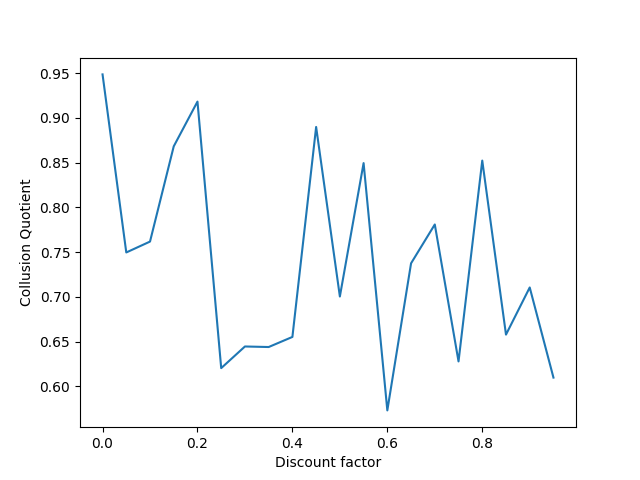
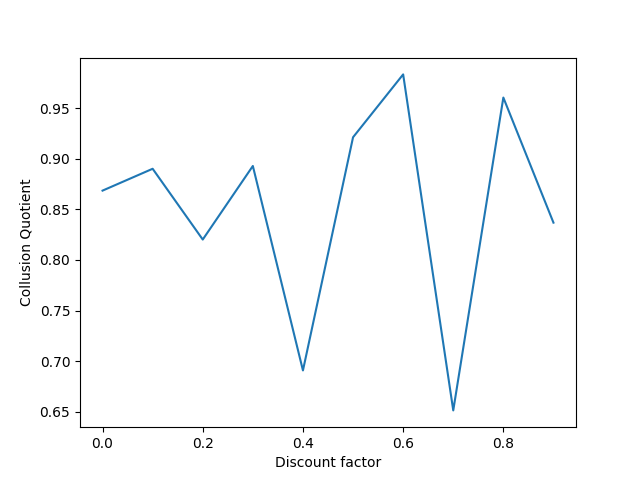
push

diff --git a/graph_2_firms_2_products_boxplot.py b/graph_2_firms_2_products_boxplot.py
@@ -1,0 +1,36 @@
+import numpy as np
+import utils.lib as lib
+import Classes.SIMULATOR as SIMULATOR
+import utils.config as config
+import matplotlib.pyplot as plt
+from os.path import basename
+
+
+filename =  basename(__file__)
+
+
+def main():
+    sessions = 1
+    iterations = 10**7
+    numb_firms = 2
+
+    collusion_quotients_list = []
+
+
+    new_config = config.create_config(sessions=sessions, iterations=iterations, numb_firms=numb_firms, numb_products=2)
+    market, results = SIMULATOR.simulate_sessions(new_config, filename=filename, parallel=True, savedData=False)
+    collusion_quotients = [[state.collussion_quotient for state in result[-100000:]] for result in results]
+    collusion_quotients = np.array(collusion_quotients)
+    collusion_quotients = np.mean(collusion_quotients, axis=(1,2))
+    collusion_quotients = np.transpose(collusion_quotients)
+    collusion_quotients_list.append(collusion_quotients)
+
+    plt.boxplot(collusion_quotients_list)
+    plt.ylabel('Collusion Quotient')
+    plt.xlabel('Number of firms')
+    plt.savefig(config.create_filepath(filename + "_boxplot"))
+
+if __name__ == "__main__":
+    config.profile_main(main,filename)
+    
+    

diff --git a/graph_discount_factor_multiproduct.py b/graph_discount_factor_multiproduct.py
@@ -23,7 +23,7 @@ def main():
         new_config = config.create_config(sessions=sessions, iterations=iterations, numb_firms=numb_firms, gamma=gamma)
         market, results = SIMULATOR.simulate_sessions(new_config, filename=filename, parallel=True, savedData=False)
         min_length = min(len(result) for result in results)
-        collusion_quotients = [[state.collussion_quotient for state in result[-100000:]] for result in results]
+        collusion_quotients = [[state.collussion_quotient for state in result[-1000000:]] for result in results]
         collusion_quotients = np.array(collusion_quotients)
         average_collusion_quotient.append(np.mean(collusion_quotients))
 
